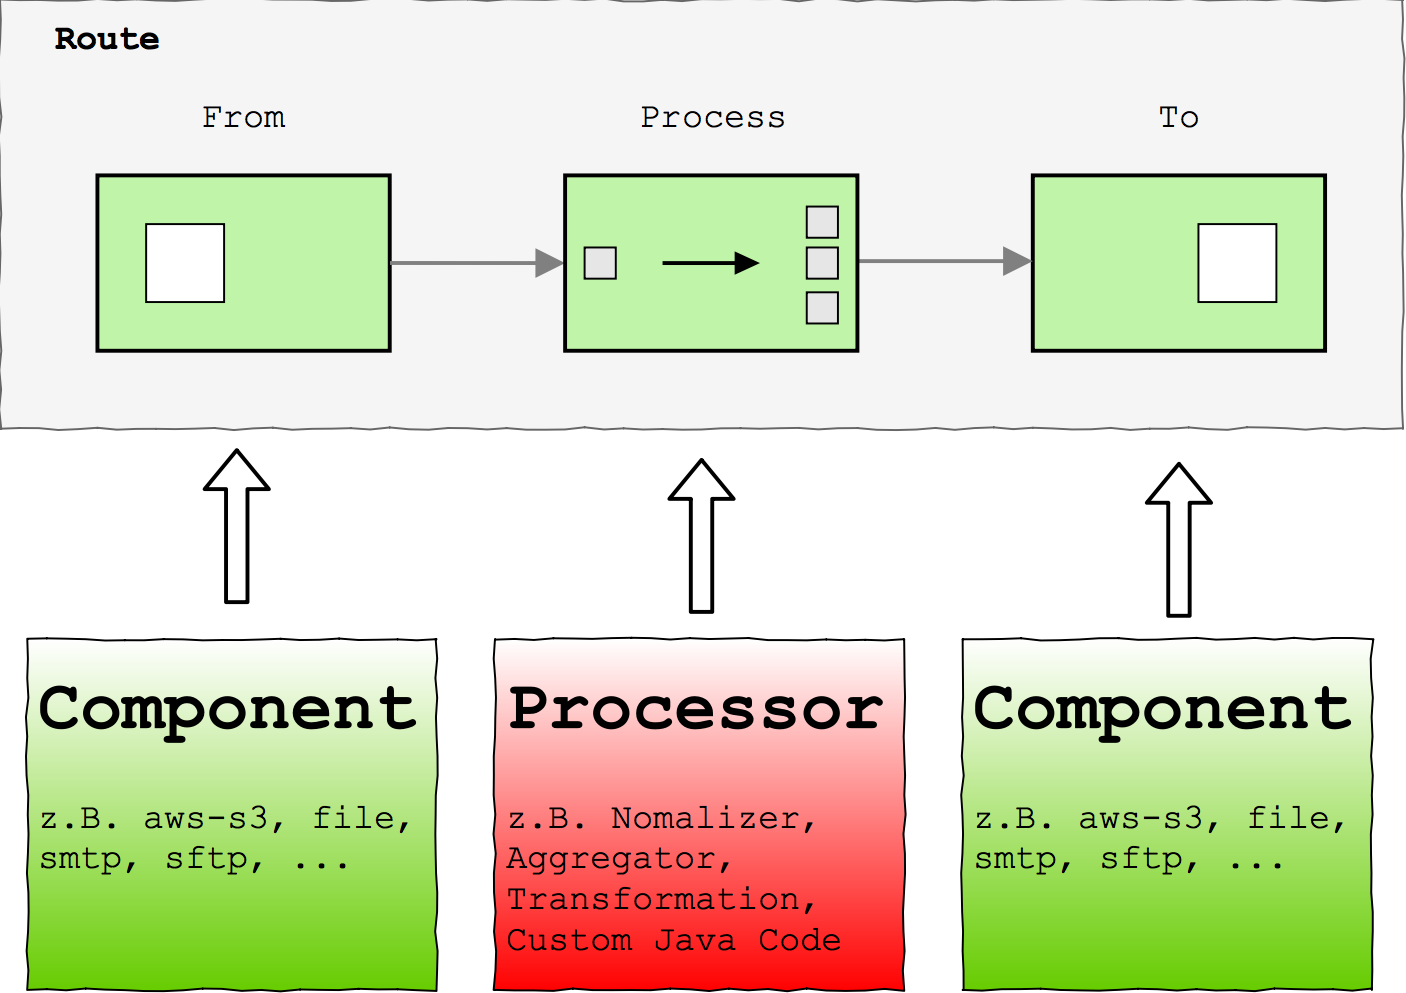
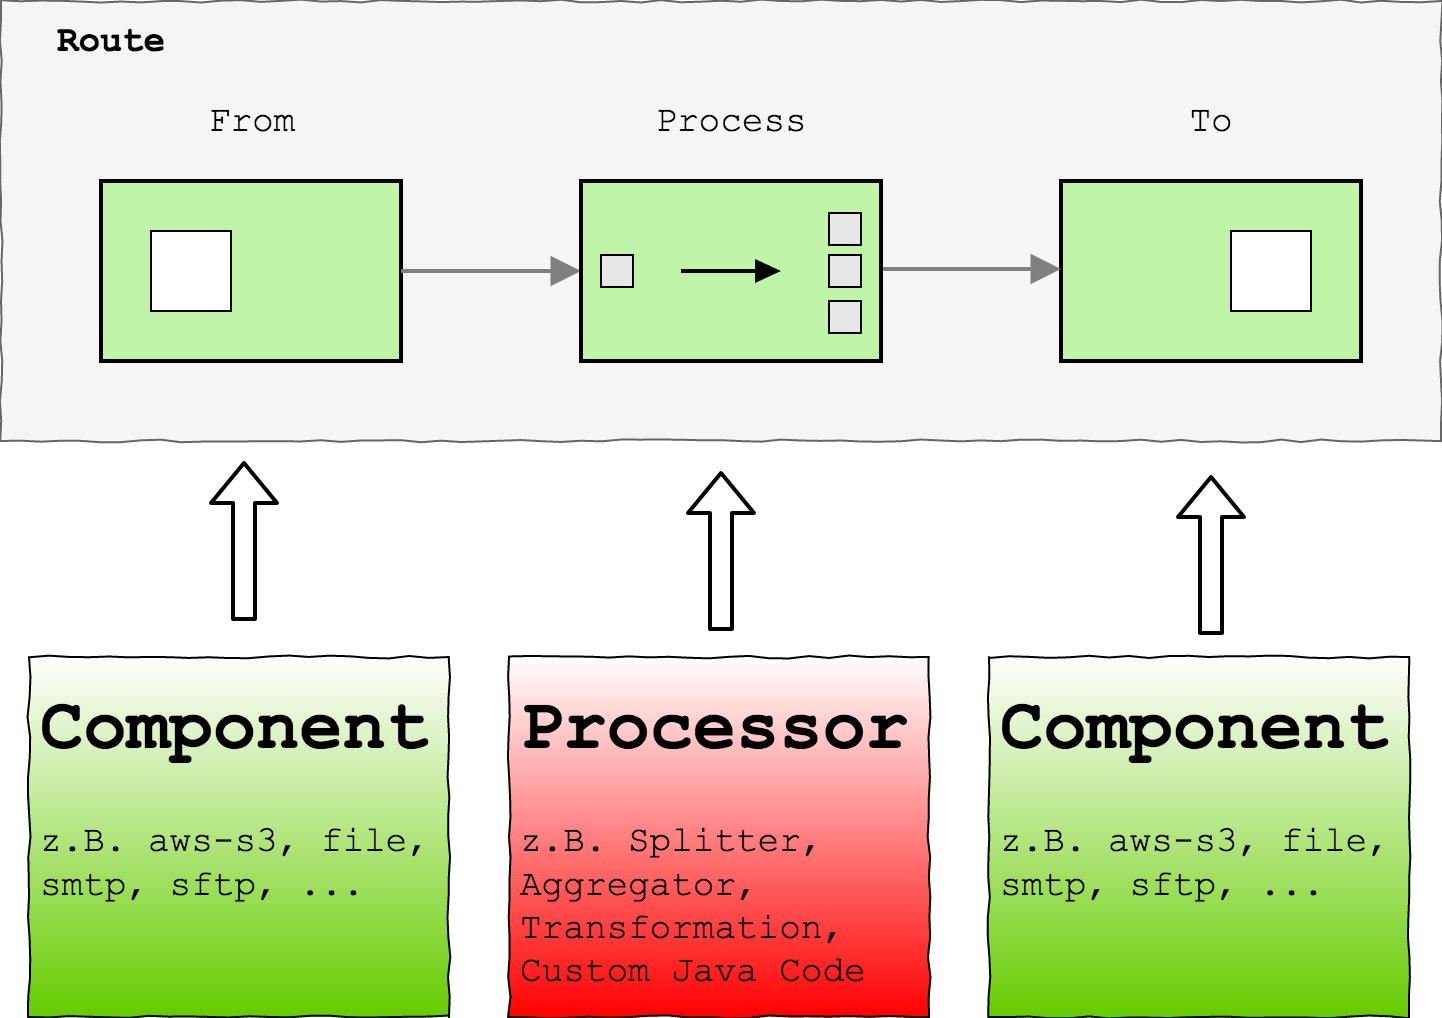
Remove unneeded stuff for talk, typos

diff --git a/index.html b/index.html
@@ -30,7 +30,7 @@
 					<div class="title">
 						<small>Enterprise Application Integration mit</small>
 						<h1>Apache Camel</h1>
-						<h5>04.10.2018 --- Softwerkskammer Lübeck</h5>
+						<h5>08.10.2018 --- JCON 2018 --- Düsseldorf</h5>
 						<h5><a href="emailto:rutz.mario@guj.de">Mario Rutz</a> / <a href="https://twitter.com/basis42" traget="_blank">@basis42</a> / <a href="https://www.guj.de/"><img class="gujlogo" src="image/Gruner+Jahr-Logo.svg.png"></a></h5>
 					</div>
 				</section>
@@ -41,7 +41,6 @@
 						<li class="fragment">Java / PHP / Javascript</li>
 						<li class="fragment">CSS unter Schmerzen</li>
 						<li class="fragment">MOS 6502 Assembler</li>
-						<li class="fragment">...</li>
 					</ul>
 					<aside class="notes">
 						Mos, Wer weiß es?<br>
@@ -187,30 +186,14 @@
 					<section>
 						<h3>Ein kleines Beispiel</h3>
 						<small>Achtung: Mitmach-Aufgabe :-)</small>
-						<p>Finde Twitter Tweets mit dem Hashtag <span class="highlight-lila-inline">#swklübeck</span>
-							und generiere mit dem neuesten Tweet eine HTML Seite die via Amazon-S3 CDN ausgeliefert    wird.</p>
+						<p>Finde Twitter Tweets mit dem Hashtag <span class="highlight-lila-inline">#jconcamel</span>
+							und generiere mit dem neuesten Tweet eine HTML Seite die via Amazon-S3 CDN ausgeliefert wird.</p>
 					</section>
 				</section>
 				<section>
 					<iframe width="100%" height="300px" data-src="https://s3-eu-west-1.amazonaws.com/rutz2-camel-talk/latest_tweet.html"></iframe>
 					<aside class="notes">
 						Nach Code: Läuft auch in Amazon Lambda und es gibt eine Slack Integration -> vgl. Talk von Felix letzte Woche
-					</aside>
-				</section>
-				<section>
-					<h3>Apache Camel als Framework</h3>
-					<small>Auch einzelne Funktionen können hilfreich sein</small>
-					<pre><code data-trim data-noescape>
-						ProducerTemplate template = exchange.getContext().createProducerTemplate();
-
-						// you can cast the response directly
-						String ret = template.requestBody("&lt;hello/&gt;", String.class);
-
-						// or specify the endpoint directly
-						String ret = template.requestBody("aws-s3://bucketname?accessKey=...", "...", String.class);
-					</code></pre>
-					<aside class="notes">
-						Apache Camel Routing eher nicht geeignet für syncrone, Zeit-kritische Prozesse
 					</aside>
 				</section>
 				<section>
@@ -243,22 +226,21 @@
 					<ul>
 						<li class="fragment">syncrone, zeitkritische Prozesse sind problematisch</li>
 						<li class="fragment">Business Logik in Services außerhalb EAI</li>
-						<li class="fragment">Gesamtsystem wächst schnell</li>
 						<li class="fragment">Modularisierung wird schnell zum Thema</li>
 						<li class="fragment">XML DSL ist nur anfangs sexy</li>
-						<li class="fragment">Message Tracing via Greylog nicht immer einfach</li>
+						<li class="fragment">Debugging via klassisches Logging nicht immer einfach</li>
 					</ul>
 				</section>
 				<section>
 					<h2>Takeaways</h2>
 					<ul>
-						<li class="fragment">Most important: Integration kann Spass machen</li>
-						<li class="fragment">Don't re-invent the wheel</li>
+						<li class="fragment">Zuallererst: Integration kann Spass machen</li>
+						<li class="fragment">Es gilt, wie so oft: Don't re-invent the wheel</li>
 					</ul>
 					<aside class="notes">
 						<ul>
 							<li>Schnelle Erfolge auch für Java Beginner.</li>
-							<li>Es gibt keinen Grund für  eigen Implemtierung</li>
+							<li>Es gibt keinen Grund für eigen-Implemtierung</li>
 						</ul>
 					</aside>
 				</section>

diff --git a/example/src/main/java/de/guj/dvs/camel/LatestTweetRouteBuilder.java b/example/src/main/java/de/guj/dvs/camel/LatestTweetRouteBuilder.java
@@ -8,7 +8,7 @@ public class LatestTweetRouteBuilder extends RouteBuilder {
 
     public void configure() {
 
-        final String HASHTAG = "SWKLübeck";
+        final String HASHTAG = "jconcamel";
         String TWITTER_STREAM_API_ENDPOINT
                 = String.format("twitter-streaming:filter?keywords=%s&type=event&delay=600000&count=100&consumerKey=%s&consumerSecret=%s&accessToken=%s&accessTokenSecret=%s", HASHTAG, Props.TW_CK, Props.TW_CS, Props.TW_AT, Props.TW_ATS);
         String S3_ENDPOINT
